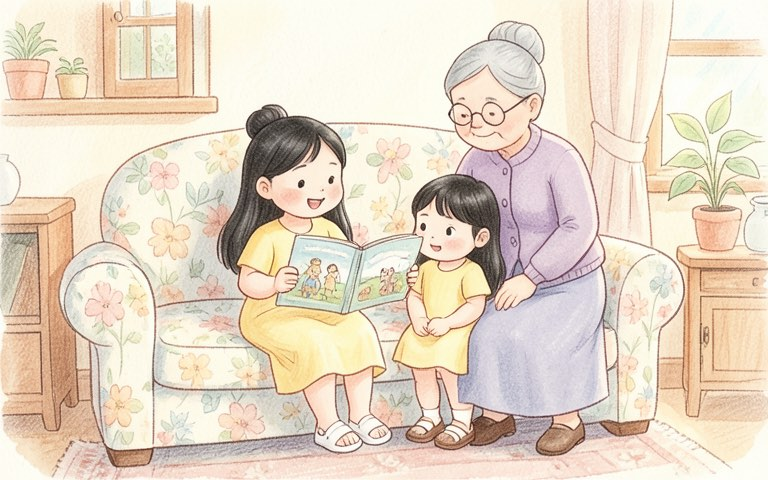
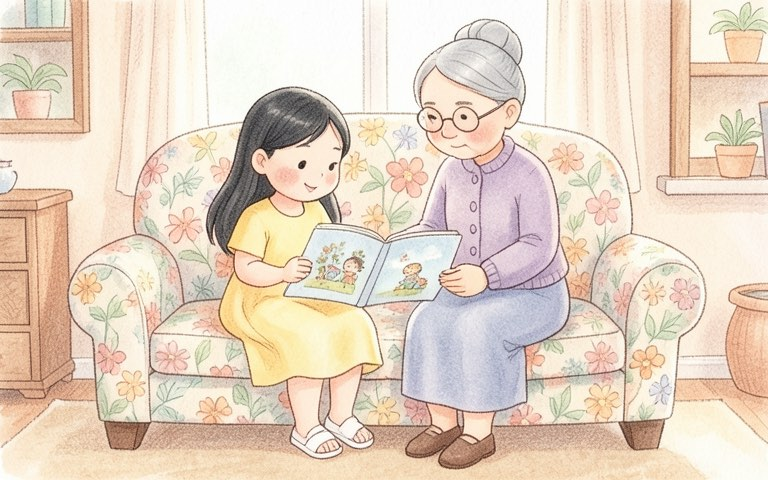
Redraw Grandma's House p17: grandma and girl only

diff --git a/server/scripts/pregen-img.js b/server/scripts/pregen-img.js
@@ -382,7 +382,7 @@ const SCENES = {
   '26-7': ["white puffy coat|younger brother|the yard:", "the girl and her brother breathe out little white puffs of breath in the fresh cold air, smiling with red cheeks. Only two children"],
   '26-12': ["white puffy coat|younger brother|the yard:", "the girl and her brother each make small round snowballs with their gloves, a little pile of snowballs between them. Only two children"],
   '26-13': ["white puffy coat|younger brother|the yard:", "her younger brother throws a small snowball, the girl with empty hands laughs and ducks, the snowball flies past her. Only two children"], '26-6': ["white puffy coat|younger brother|the yard:", "the girl and her brother run out of the front door into the snowy yard, laughing, snow flying from their boots. Only two children"], '26-8': ["white puffy coat|younger brother|the yard:", "the girl and her brother roll a huge snowball across the yard together, a second snowball already stands nearby. Only two children"], '26-9': ["white puffy coat|younger brother|snowman:|the yard:", "the brother stands on his toes and pushes a long orange carrot into the face of the big snowman as its nose, the girl watches. Only two children, only one snowman"], '26-10': ["white puffy coat|snowman:|the yard:", "the girl presses two round black stones into the snowman's face as eyes. Only one child, only one snowman"], '26-11': ["snowman:|the yard:", "a close look at the finished big snowman in the snowy yard: long orange carrot nose, black stone eyes, a stone smile and stick arms, it looks funny and happy. No people"], '26-14': ["white puffy coat|younger brother|the yard:", "the girl and her brother laugh and laugh, holding their tummies in the snow. Only two children"], '26-15': ["white puffy coat", "a close look at the girl's happy face with bright red cold cheeks and a red nose, snowflakes on her red hat. Only one child"], '26-16': ["white puffy coat|younger brother|the yard:", "the girl and her brother lie down on their backs side by side in the soft snow, looking up at the sky. Only two children"], '26-17': ["white puffy coat|younger brother|the yard:", "seen from above: the girl and her brother lie on their backs in the snow and sweep their arms and legs to make snow angel shapes. Only two children"], '26-18': ["white puffy coat|younger brother|their mom|the yard:", "their mom stands at the open front door and waves the children inside, the girl and her brother run toward the door. Only two children and one grown-up"], '26-19': ["girl indoors|brother indoors", "in the warm living room by the fireplace, the girl in a pink sweater and her brother in a green sweater sip hot cocoa with marshmallows from big mugs. Only two children"], '26-20': ["girl indoors", "in the warm living room, the girl in a pink sweater sits by the fireplace and wiggles her toes in fuzzy socks near the warm fire, smiling. Only one child"], '26-21': ["girl indoors|snowman:", "the girl in a pink sweater looks out the frosty window at the big snowman in the yard and smiles happily, snow falling outside. Only one child"],
-  '30-17': ["8-year-old|grandma","on the flowery sofa in grandma's living room, grandma holds an open picture book in both hands and reads it aloud; the girl in the yellow dress sits close beside her, her hands empty, and listens with a happy face, looking at the pictures. Only two people"],
+  '30-17': ["8-year-old|grandma","on the flowery sofa in grandma's living room, grandma sits alone on the sofa and the small girl in the yellow dress sits on her lap; grandma holds an open picture book in front of them and reads it aloud, the girl listens happily. Nobody else on the sofa. Only two people in the whole picture: one grandma and one girl"],
   '30-20': ["8-year-old|grandma", "the girl and grandma sit at the kitchen table eating bowls of vegetable soup"],
   '30-21': ["8-year-old", "the girl in a yellow dress sits by one train window at night and waves goodbye, only one moon in the sky, only one child"],
   '30-22': ["8-year-old", "inside a train car at night, the girl sits alone on a train seat by the window and looks out, a little sad, missing grandma"],
@@ -672,7 +672,7 @@ const SCENES = {
   '98-0': ["", "snow falls on a dark mountain at night, nobody around"], '98-1': ["tiger", "the big tiger walks down the snowy mountain path, only one tiger"], '98-2': ["tiger", "the tiger licks his lips and rubs his tummy, hungry, only one tiger"], '98-3': ["tiger|the house:|the house:", "the tiger stands all alone in the snow and looks at a little thatched house with warm light in the window, nobody at the window, only one tiger, no other animals"], '98-4': ["the mom|the room:|the room:", "only one person in the room: the mom in a hanbok with her hair in a bun holds one tiny crying newborn baby wrapped in a soft blanket in her arms, the baby is lying in her arms"], '98-5': ["the mom|the room:","the mom in a light blue hanbok sits on the floor and holds one single tiny baby wrapped in a white blanket in her arms; the one baby cries very loudly with its mouth wide open, little loud lines around its face. Exactly one baby with one head, and one mom. Nobody else"], '98-6': ["the mom|baby|the room:|the room:", "the mom rocks one tiny crying baby in her arms"], '98-7': ["the mom|the room:|the room:", "only one person in the room: the mom in a hanbok holds one tiny newborn baby wrapped in a soft blanket in her arms, the baby cries even louder with big tears, the baby is lying in her arms"], '98-8': ["tiger|the house:|the house:", "outside in the snow, the tiger presses his ear to the house wall and listens with a surprised face, only one tiger"], '98-9': ["the mom|the room:|the room:", "only one person in the room: the mom in a hanbok holds one tiny newborn baby wrapped in a soft blanket in one arm and holds out one orange dried persimmon with her other hand, the baby is lying in her arms"], '98-10': ["the mom|the room:", "only one person in the room: the mom in a hanbok holds one tiny newborn baby wrapped in a soft blanket in her arms, the baby is calm and smiling, the baby is lying in her arms. Who is in the picture: one tiny newborn baby wrapped in a soft blanket, always held in the mom's arms; the mom, a grown-up woman in a simple Korean hanbok with her hair in a bun. exactly two people in the whole picture, each person appears only once, nobody else"], '98-11': ["tiger|the house:|the house:", "the tiger stands all alone in the snow outside the house and shakes with fear, his eyes wide, only one tiger, no other animals"], '98-12': ["tiger", "the tiger shakes with fear and imagines a giant orange persimmon monster with angry eyes in a thought cloud above his head, only one tiger"], '98-13': ["tiger|thief", "in the dark the thief jumps down onto the tiger's back, the tiger looks shocked, only one tiger and one man"], '98-14': ["thief","the thief in dark clothes with a black cloth over his mouth sneaks through the snow toward the small wooden cow shed in the dark, on tiptoe. Only one person, no animals outside the shed"], '98-15': ["tiger|thief", "in the dark night the thief sits on the tiger's back and squints, he cannot see well, only one tiger and one man"], '98-16': ["tiger|thief", "the thief rides on the back of the scared tiger as the tiger starts to run, nobody walks beside them, only one tiger and one man on top"], '98-17': ["tiger|thief", "the tiger runs very fast through the snowy forest with the thief riding on his back, motion lines, nobody else, only one tiger and one man on top"], '98-18': ["tiger|thief","the tiger runs through the dark snowy forest; the thief lies flat on the tiger's back and hugs the tiger's neck tightly with both arms, both of his legs wrapped around the tiger's body, his eyes squeezed shut, scared. Only one tiger and one man"], '98-19': ["tiger|thief","the tiger keeps running to the right; behind him, the thief has jumped off and falls into the deep soft snow on the left, landing on his back with arms and legs up, snow puffing up around him. Only one tiger and one man"], '98-20': ["tiger", "seen from far away, one tiger runs away up the snowy mountain, small in the distance, only one tiger"], '98-21': ["the house:","the little thatched house is quiet in the snow at night under exactly one round moon in the sky, warm light in the window, nobody outside, nobody at the window. Only one moon"],
   '99-0': ["", "one sleepy moon over a quiet forest and lake at night, nobody around"], '99-1': ["", "one small brown bat flies near the opening of a dark rocky cave in the evening, only one bat"], '99-2': ["", "inside a dark rocky cave, one small brown bat sleeps on the cave ceiling, only one bat"], '99-3': ["", "one bat hangs upside down from the ceiling of a dark cave"], '99-4': ["", "one small brown bat hangs upside down from the cave ceiling by its feet, wings wrapped around it, eyes closed, only one bat"], '99-5': ["", "one brown horse stands in a green field at night under one moon, only one horse"], '99-6': ["", "one brown horse stands on all four legs in the field and sleeps standing up with its eyes closed and its head low, the horse is standing, not lying down, only one horse"], '99-7': ["", "two little brown sparrows sit on a tree branch in the evening, only two birds"], '99-8': ["", "two little brown sparrows sleep side by side on a tree branch with their eyes closed, only two birds"], '99-9': ["", "one little brown sparrow sleeps on a thin tree branch, only one bird"], '99-10': ["", "a close look at one little sparrow's feet holding a tree branch tight, the bird is sleeping, only one bird"], '99-11': ["", "one pink flamingo stands by a calm lake in the evening, only one bird"], '99-12': ["", "one pink flamingo stands tall on one thin leg in the shallow water, the other leg is tucked up, its head is tucked into its back feathers, sleeping, only one bird"], '99-13': ["","seen from directly above, looking straight down at the calm dark blue water at night: two dark brown sea otters lie flat on their backs on top of the water side by side, like floating on a bed, their whole bodies visible from head to tail, their light faces and bellies facing up, little back feet and flat tails at the bottom, their eyes open, little paws on their chests. Only two otters"], '99-14': ["","seen from directly above, looking straight down at the calm dark blue water at night: two dark brown sea otters lie flat on their backs on top of the water side by side, like floating on a bed, their whole bodies visible from head to tail, their light faces and bellies facing up, little back feet and flat tails at the bottom, eyes closed, sleeping, little paws on their chests. Only two otters"], '99-15': ["","seen from directly above, looking straight down at the calm dark blue water at night: two dark brown sea otters lie flat on their backs on top of the water side by side, like floating on a bed, their whole bodies visible from head to tail, their light faces and bellies facing up, little back feet and flat tails at the bottom, the two otters reach out and hold each other's paws between them, eyes open. Only two otters"], '99-16': ["","seen from directly above, looking straight down at the calm dark blue water at night: two dark brown sea otters lie flat on their backs on top of the water side by side, like floating on a bed, their whole bodies visible from head to tail, their light faces and bellies facing up, little back feet and flat tails at the bottom, holding each other's paws between them, eyes closed, sleeping peacefully, a few tiny stars reflected in the water. Only two otters"], '99-17': ["", "one orange cat curled up on a soft cushion, only one cat"], '99-18': ["", "one orange cat naps in a bright patch of sunshine on the floor by a window, blue sky and sun outside, daytime, only one cat"], '99-19': ["6-year-old girl|the bedroom:", "the girl sits in bed and yawns with her hand over her mouth, curtains closed, only one child"], '99-20': ["6-year-old girl|the bedroom:", "the girl in pink pajamas lies on her back in bed and sleeps with her head on the pillow, a warm blanket pulled up over her body to her shoulders, only her head and hands above the blanket"], '99-21': ["6-year-old girl|the bedroom:", "the girl lies in bed under the blanket and waves"],
   '100-0': ["6-year-old boy|Grandpa,|the room:", "the boy and Grandpa smile next to the wooden worktable, only one child and one grown-up"], '100-1': ["6-year-old boy|Grandpa,", "Grandpa opens an open red toolbox and the boy looks inside, only one child and one grown-up"], '100-2': ["", "an open red toolbox with a hammer, a bottle of glue and a roll of tape inside, no words, nothing else"], '100-3': ["6-year-old boy|toy car:", "the boy holds a small blue toy car with one wheel missing and looks sad, only one child"], '100-4': ["toy car:", "a close look at the small blue toy car on the wooden worktable, its front wheel is missing, and that one round black wheel lies on the table next to it. No people"], '100-5': ["6-year-old boy|Grandpa,|toy car:", "the boy gives a small blue toy car to Grandpa, only one child and one grown-up"], '100-6': ["Grandpa|6-year-old|toy car:", "Grandpa with gray hair and a gray mustache glues the wheel back onto one small toy car, the boy with short black hair in a yellow shirt watches beside him, only one child and one grown-up"], '100-7': ["6-year-old boy|the room:", "the boy looks up at a wooden wall clock with no numbers that has stopped, only one child"], '100-8': ["Grandpa,", "Grandpa puts a new battery into the back of a wooden wall clock with no numbers, only one person"], '100-9': ["6-year-old boy|the room:", "the boy smiles and listens to a wooden wall clock with no numbers, little tick lines near it, only one child"], '100-10': ["6-year-old boy", "the boy covers his ears, an old wooden door creaks behind him, only one child"], '100-11': ["", "an old wooden door half open, little squeak lines near the hinge, nobody around"], '100-12': ["Grandpa,", "Grandpa puts oil on the door hinge with a small oil can, only one person"], '100-13': ["his big sister", "his big sister holds a blue umbrella with broken ribs and looks sad"], '100-14': ["big sister", "the big sister points at herself and holds the broken blue umbrella, only one child"], '100-15': ["Grandpa|sister", "Grandpa tapes the broken rib of an open umbrella lying on the table, his big sister with a long black ponytail in a purple raincoat watches beside him, only one grown-up and one child"], '100-16': ["6-year-old boy|the room:", "the boy kneels and looks under a brown armchair, only one child"], '100-17': ["6-year-old boy|Grandpa", "the boy holds up bent glasses he found under the chair, Grandpa looks surprised"], '100-18': ["", "a close look at a pair of bent glasses on the wooden worktable, nothing else"], '100-19': ["Grandpa,|the room:", "Grandpa sits in the brown armchair without glasses and squints, he is the only person in the picture, no one standing"], '100-20': ["6-year-old boy|Grandpa", "the boy holds the glasses, Grandpa straightens one arm of the glasses with his finger"], '100-21': ["6-year-old boy|Grandpa,", "Grandpa wears his glasses again and hugs the boy, both smiling, only one child and one grown-up"],
-  '101-0': ["the living room:","inside the cozy living room at night, a big storm outside: through the closed window we see dark clouds, heavy rain and a flash of lightning; the lamp is on inside. No people, no animals"], '101-1': ["the living room:","a close look at the closed living room window at night: heavy rain streams down the glass, dark stormy sky outside, the curtains on both sides. No people, no animals"], '101-2': ["8-year-old girl|little brother|her mom|her dad|the living room:","in the living room at night with the lamp on, the whole family is together: the girl and her little brother sit on the gray sofa, the mom sits next to them, the dad stands by the window; rain on the window. Exactly four people"], '101-3': ["8-year-old girl|little brother|her mom|her dad|the living room:","in the living room, all the lights suddenly go out: the room turns dark, the girl, her little brother, the mom and the dad look up surprised, a flash of lightning in the window. Exactly four people"], '101-4': ["8-year-old girl|little brother|the living room:", "a very dark living room, the girl and her little brother sit close together on the sofa and are only dimly seen, only two children"], '101-5': ["little brother", "the little brother cries in the dark living room, only one child"], '101-6': ["her dad|the living room:","in the dark living room, the dad opens the drawer of the cabinet by the door and finds a yellow flashlight, its beam shining. Only one person"], '101-7': ["her mom|the living room:","in the dark living room, the mom puts two white candles on the small wooden table and lights them with a long match. Only one person"], '101-8': ["", "two white candles glow on a table, soft yellow light in a dark room, nobody around"], '101-9': ["her dad|8-year-old girl|little brother|the living room:","in the candlelit living room, the dad holds his two hands up in front of the candle light and makes a hand shadow on the plain yellow wall; the girl and her little brother sit on the floor and watch. Exactly three people"], '101-10': ["", "a dark shadow shaped like a flying bird on the yellow wall, soft candlelight, nobody around"], '101-11': ["", "a big dark bird shadow flies across the yellow wall in the candlelight, nobody around"], '101-12': ["8-year-old girl", "the girl holds up her hand and makes a bunny shadow with long ears on the wall in candlelight, her hair is a plain black bob with nothing on her head, only one child"], '101-13': ["little brother", "the little brother laughs happily in the candlelight, only one child"], '101-14': ["8-year-old girl|little brother|her mom|her dad|the living room:","in the candlelit living room, the mom sits on the gray sofa and tells a story with her hands moving, the girl and her little brother sit beside her and listen, the dad sits on the floor. Exactly four people, the candles on the small table"], '101-15': ["", "a funny lazy fat orange cat sleeping in a basket, drawn like a dream in a soft round cloud"], '101-16': ["8-year-old girl|little brother|her mom|her dad|the living room:","in the candlelit living room, the whole family laughs together on the gray sofa: the girl, her little brother, the mom and the dad, all laughing hard. Exactly four people, each drawn once"], '101-17': ["8-year-old girl|little brother|her mom|her dad|the living room:","in the candlelit living room, the family sits around the small wooden table and eats bread and drinks milk by the light of two candles. Exactly four people"], '101-18': ["8-year-old girl|little brother", "by candlelight, the girl and her little brother sit on the floor next to a black TV screen that is off, they shrug and smile"], '101-19': ["8-year-old girl", "the girl smiles in the soft candlelight, only one child"], '101-20': ["8-year-old girl|little brother|her mom|her dad|the living room:","the lights come back on in the living room late at night: the lamp and the ceiling light glow bright, the girl and the mom look up and smile. No animals"], '101-21': ["little brother", "the little brother sleeps on the sofa under a blanket, only one child"], '101-22': ["her dad|the living room:","in the bright living room, the dad leans over the small wooden table and blows out the two white candles, little smoke curls rise. Only one person"], '101-23': ["8-year-old girl|little brother|her mom|her dad|the living room:","in the living room, the girl hugs her mom and dad, smiling; the little brother is asleep on the sofa under a blue blanket. Exactly four people"],
+  '101-0': ["the living room:","inside the cozy living room at night, a big storm outside: through the closed window we see dark clouds, heavy rain and a flash of lightning; the lamp is on inside. No people, no animals"], '101-1': ["the living room:","a close look at the closed living room window at night: heavy rain streams down the glass, dark stormy sky outside, the curtains on both sides. No people, no animals"], '101-2': ["8-year-old girl|little brother|her mom|her dad|the living room:","in the living room at night with the lamp on, the whole family is together: the girl and her little brother sit on the gray sofa, the mom sits next to them, the dad stands by the window; rain on the window. Exactly four people"], '101-3': ["8-year-old girl|little brother|her mom|her dad|the living room:","in the living room, all the lights suddenly go out: the room turns dark, the girl, her little brother, the mom and the dad look up surprised, a flash of lightning in the window. Exactly four people"], '101-4': ["8-year-old girl|little brother|the living room:", "a very dark living room, the girl and her little brother sit close together on the sofa and are only dimly seen, only two children"], '101-5': ["little brother", "the little brother cries in the dark living room, only one child"], '101-6': ["her dad|the living room:","in the dark living room, the dad opens the drawer of the cabinet by the door and finds a yellow flashlight, its beam shining. Only one person"], '101-7': ["her mom|the living room:","in the dark living room, the mom puts two white candles on the small wooden table and lights them with a long match. Only one person"], '101-8': ["", "two white candles glow on a table, soft yellow light in a dark room, nobody around"], '101-9': ["her dad|8-year-old girl|little brother|the living room:","in the candlelit living room, the dad holds his two hands up in front of the candle light and makes a hand shadow on the plain yellow wall; the girl and her little brother sit on the floor and watch. Exactly three people"], '101-10': ["", "a dark shadow shaped like a flying bird on the yellow wall, soft candlelight, nobody around"], '101-11': ["", "a big dark bird shadow flies across the yellow wall in the candlelight, nobody around"], '101-12': ["8-year-old girl", "the girl holds up her hand and makes a bunny shadow with long ears on the wall in candlelight, her hair is a plain black bob with nothing on her head, only one child"], '101-13': ["little brother", "the little brother laughs happily in the candlelight, only one child"], '101-14': ["8-year-old girl|little brother|her mom|her dad|the living room:","in the candlelit living room, the mom sits on the gray sofa and tells a story with her hands moving, the girl and her little brother sit beside her and listen, the dad sits on the floor. Exactly four people, the candles on the small table"], '101-15': ["", "a funny lazy fat orange cat sleeping in a basket, drawn like a dream in a soft round cloud"], '101-16': ["8-year-old girl|little brother|her mom|her dad|the living room:","in the dark living room lit only by two candles on the round wooden table, the whole family laughs together on the gray sofa: the dad, the mom, the girl and her little brother sitting on the mom's lap, all laughing hard. Exactly four people: two grown-ups and two children, each drawn once"], '101-17': ["8-year-old girl|little brother|her mom|her dad|the living room:","in the candlelit living room, the family sits around the small wooden table and eats bread and drinks milk by the light of two candles. Exactly four people"], '101-18': ["8-year-old girl|little brother", "by candlelight, the girl and her little brother sit on the floor next to a black TV screen that is off, they shrug and smile"], '101-19': ["8-year-old girl", "the girl smiles in the soft candlelight, only one child"], '101-20': ["8-year-old girl|little brother|her mom|her dad|the living room:","the lights come back on in the living room late at night: the lamp and the ceiling light glow bright, the girl and the mom look up and smile. No animals"], '101-21': ["little brother", "the little brother sleeps on the sofa under a blanket, only one child"], '101-22': ["her dad|the living room:","in the bright living room, the dad leans over the small wooden table and blows out the two white candles, little smoke curls rise. Only one person"], '101-23': ["8-year-old girl|little brother|her mom|her dad|the living room:","in the living room, the girl hugs her mom and dad, smiling; the little brother is asleep on the sofa under a blue blanket. Exactly four people"],
   '102-0': ["7-year-old boy|his mom", "the boy and his tall grown-up mom walk up to an old Korean house, only one child and one grown-up"], '102-1': ["7-year-old boy|his grandma|the yard:", "the boy and his grandma stand by a big pile of green napa cabbages in the yard, only one child and one grown-up"], '102-2': ["the yard:", "a big pile of many round napa cabbages with pale green leaves lying in the yard, each cabbage as big as a child's head"], '102-3': ["his grandma", "his grandma stands all alone at a board and cuts one napa cabbage in half with a big knife, nobody else around, only one person"], '102-4': ["7-year-old boy|his grandma", "the boy sprinkles white salt on the cabbage halves in a big tub, his grandma helps, only one child and one grown-up"], '102-5': ["the yard:", "cabbage halves soak in a big tub of salty water under one moon, nobody around"], '102-6': ["the yard:", "soft salted cabbage halves in the big tub in the morning sun, nobody around"], '102-7': ["", "his tall mom with a black ponytail in a yellow shirt washes the cabbage halves in a big tub of cold water, she is the only person in the picture. Who is in the picture: his mom, a tall grown-up woman with a black ponytail in a yellow shirt, a grown-up adult. exactly one person in the whole picture, each person appears only once, nobody else"], '102-8': ["his grandma", "his grandma with gray hair in a bun in a purple vest mixes a red sauce in a big bowl, she is the only person in the picture"], '102-9': ["", "red pepper powder in a bowl next to garlic and green onions"], '102-10': ["7-year-old boy", "the boy holds his nose with a funny face, only one child"], '102-11': ["his grandma|the neighbor,", "the neighbor waves hello as she walks into the yard, his grandma waves back, only two old women"], '102-12': ["7-year-old boy|his grandma|his mom|neighbor", "everyone wears red rubber gloves around a big tub of salted long napa cabbages"], '102-13': ["7-year-old boy", "the boy holds up his hands in big red rubber gloves that are too big for him and laughs, only one child"], '102-14': ["7-year-old boy|his grandma", "the boy and his grandma spread red sauce on halves of long napa cabbage"], '102-15': ["7-year-old boy", "the boy shakes his tired hands in red rubber gloves, only one child"], '102-16': ["", "his grandma with gray hair in a bun in a purple vest tastes a piece of red kimchi and smiles, she is the only person in the picture. Who is in the picture: his grandma, a kind old woman with gray hair in a bun in a purple vest, a grown-up adult. exactly one person in the whole picture, each person appears only once, nobody else"], '102-17': ["the yard:", "three brown clay pots in the yard, each filled with red napa cabbage kimchi with red leaves, no tomatoes"], '102-18': ["", "three brown clay pots full of red napa cabbage kimchi in a winter yard with a little snow, no tomatoes"], '102-19': ["", "his grandma cooks pork in a big pot in the kitchen, only one person. Who is in the picture: his grandma, a kind old woman with gray hair in a bun in a purple vest, a grown-up adult. exactly one person in the whole picture, each person appears only once, nobody else"], '102-20': ["7-year-old boy", "the boy wraps one piece of pork in a cabbage leaf on his palm"], '102-21': ["7-year-old boy", "the boy eats the cabbage wrap with a happy face, a little spicy, only one child"], '102-22': ["7-year-old boy|his grandma|his mom|the neighbor,", "the boy, his grandma, his tall grown-up mom and the neighbor eat together at one big low table, only one child and three grown-ups"], '102-23': ["7-year-old boy", "the boy proudly holds up a small bowl of red kimchi, only one child"],
   '103-0': ["8-year-old girl", "the girl smiles and holds a plain white envelope with no writing, only one child"], '103-1': ["Emma", "Emma waves in the garden in front of her house"], '103-2': ["8-year-old girl", "the girl sits at her desk with a pencil and paper, the paper seen from the side, only one child"], '103-3': ["8-year-old girl", "in her cozy bedroom with soft peach walls, the girl sits at the plain white desk by the window and writes on paper, thinking, the paper seen from the side, only one child"], '103-4': ["8-year-old girl", "the girl draws with crayons at her desk, the paper seen from the side, only one child"], '103-5': ["8-year-old girl", "the girl waves hello with a big smile, only one child"], '103-6': ["", "a town with a big river, a bridge and many tall buildings, nobody close"], '103-7': ["", "cherry trees with pink flowers along a path, nobody around"], '103-8': ["8-year-old girl", "the girl cheers with both arms up, very happy, only one child"], '103-9': ["", "one big white airplane flies above the clouds"], '103-10': ["", "a big city by a blue lake with tall buildings, nobody close"], '103-11': ["", "a big blue lake with green forests and mountains, nobody around"], '103-12': ["", "tall maple trees with red and orange leaves, nobody around"], '103-13': ["", "a stack of pancakes with golden maple syrup on a plate, nothing else"], '103-14': ["8-year-old girl", "the girl holds a small gift box with a red ribbon, only one child"], '103-15': ["", "a close look at one small Korean folding hand fan made of paper with thin wooden ribs, opened wide like a half circle, painted with pink flowers, lying on a white desk. It is a hand fan, not an electric fan. Nothing else"], '103-16': ["8-year-old girl", "the girl wraps a small gift at the desk in her room"], '103-17': ["8-year-old girl", "the girl writes a letter at the desk in her room"], '103-18': ["8-year-old girl", "the girl waves goodbye and makes a heart with her hands, only one child"], '103-19': ["8-year-old girl", "the girl puts the letter in an envelope at the desk in her room"], '103-20': ["8-year-old girl|her dad", "the girl and her dad walk past one red mailbox. The small post office has a plain sign with no letters and no writing"], '103-21': ["", "a plain white envelope with no writing with little wings flies over the blue sea toward a far city"], '103-22': ["Emma,", "Emma smiles and holds a plain white envelope with no writing with both hands, only one child"], '103-23': ["8-year-old girl", "the girl stands next to a small red metal mailbox in front of her house and opens its little front door; the mailbox is a simple red box with a rounded top on a wooden post, as high as her shoulder, empty inside, only one child, nobody else"],
   '104-0': ["6-year-old boy", "the boy in a white taekwondo uniform stands proudly, ready, only one child"], '104-1': ["", "a small taekwondo school building near houses, its sign has no writing"], '104-2': ["6-year-old boy", "the boy shows off his white taekwondo uniform with his arms out, only one child"], '104-3': ["6-year-old boy", "the boy ties a white belt around his waist, only one child"], '104-4': ["the teacher,|6-year-old boy", "the tall grown-up teacher with a black belt, twice as tall as the boy, bows politely and the small boy with a white belt bows back on the blue mat, only one child and one grown-up"], '104-5': ["6-year-old boy", "the boy sits on the mat with his legs stretched forward and holds his toes"], '104-6': ["6-year-old boy", "the boy punches forward with a strong face, only one child"], '104-7': ["6-year-old boy", "the boy does a front kick, only one child"], '104-8': ["6-year-old boy", "the boy does a very high kick, motion lines, only one child"], '104-9': ["6-year-old boy", "the boy kicks and shouts with his mouth wide open, no speech bubble, only one child"], '104-10': ["6-year-old boy", "the boy sits on the blue mat and wipes sweat from his face, tired, only one child. He wears his plain white belt, not a blue belt"], '104-11': ["6-year-old boy", "the boy practices kicks with a strong, serious face, only one child"], '104-12': ["6-year-old boy", "the boy practices a kick in his bedroom in the evening, nobody at the window, only one child"], '104-13': ["6-year-old boy|little sister", "the boy kicks on the floor, his little sister sits on the bed and watches"], '104-14': ["little sister", "the little sister claps her hands and cheers, only one child"], '104-15': ["6-year-old boy|the teacher,", "the small boy with a white belt kicks on the blue mat, the tall grown-up teacher with a black belt, twice as tall as the boy, watches with his arms crossed, only one child and one grown-up"], '104-16': ["6-year-old boy", "the boy makes fists with a brave face, only one child"], '104-17': ["6-year-old boy", "the boy proudly holds up a yellow belt with both hands, only one child"], '104-18': ["", "folded yellow, green and blue belts on a table"], '104-19': ["", "a close look at one long black cloth taekwondo belt, folded flat into a neat rectangle bundle with its two ends hanging down, lying on a small wooden table. It is a flat cloth belt, not a ring. Nothing else"], '104-20': ["6-year-old boy", "the boy stands strong with his fists on his hips like a hero, only one child"], '104-21': ["6-year-old boy|little sister", "the boy gently helps his little sister stand up on the blue mat, only two children"], '104-22': ["6-year-old boy", "the boy keeps kicking with sweat drops and a smile, only one child"], '104-23': ["6-year-old boy", "the boy jumps high in the air with a flying kick, only one child"],
